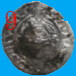
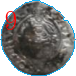
implemented aphaimg

Changed region(s): [[0.5263, 0.0, 1.0, 1.0], [0.0, 0.0, 0.4211, 1.0]]

diff --git a/Scripts/extract_imagine.py b/Scripts/extract_imagine.py
@@ -142,7 +142,7 @@ cv.imwrite("Assets\\Objects\\rez.png",blanc)
 for c in cts_by_area:
     x,y,w,h = cv.boundingRect(c)
     
-    element = img[y:y+h, x:x+w] #selectam imaginea intr-un dreptunghi
+    element = alphaimg[y:y+h, x:x+w] #selectam imaginea intr-un dreptunghi
     cv.imwrite("Assets\\Objects\\element_{}.png".format(image_number), element)
 
 
